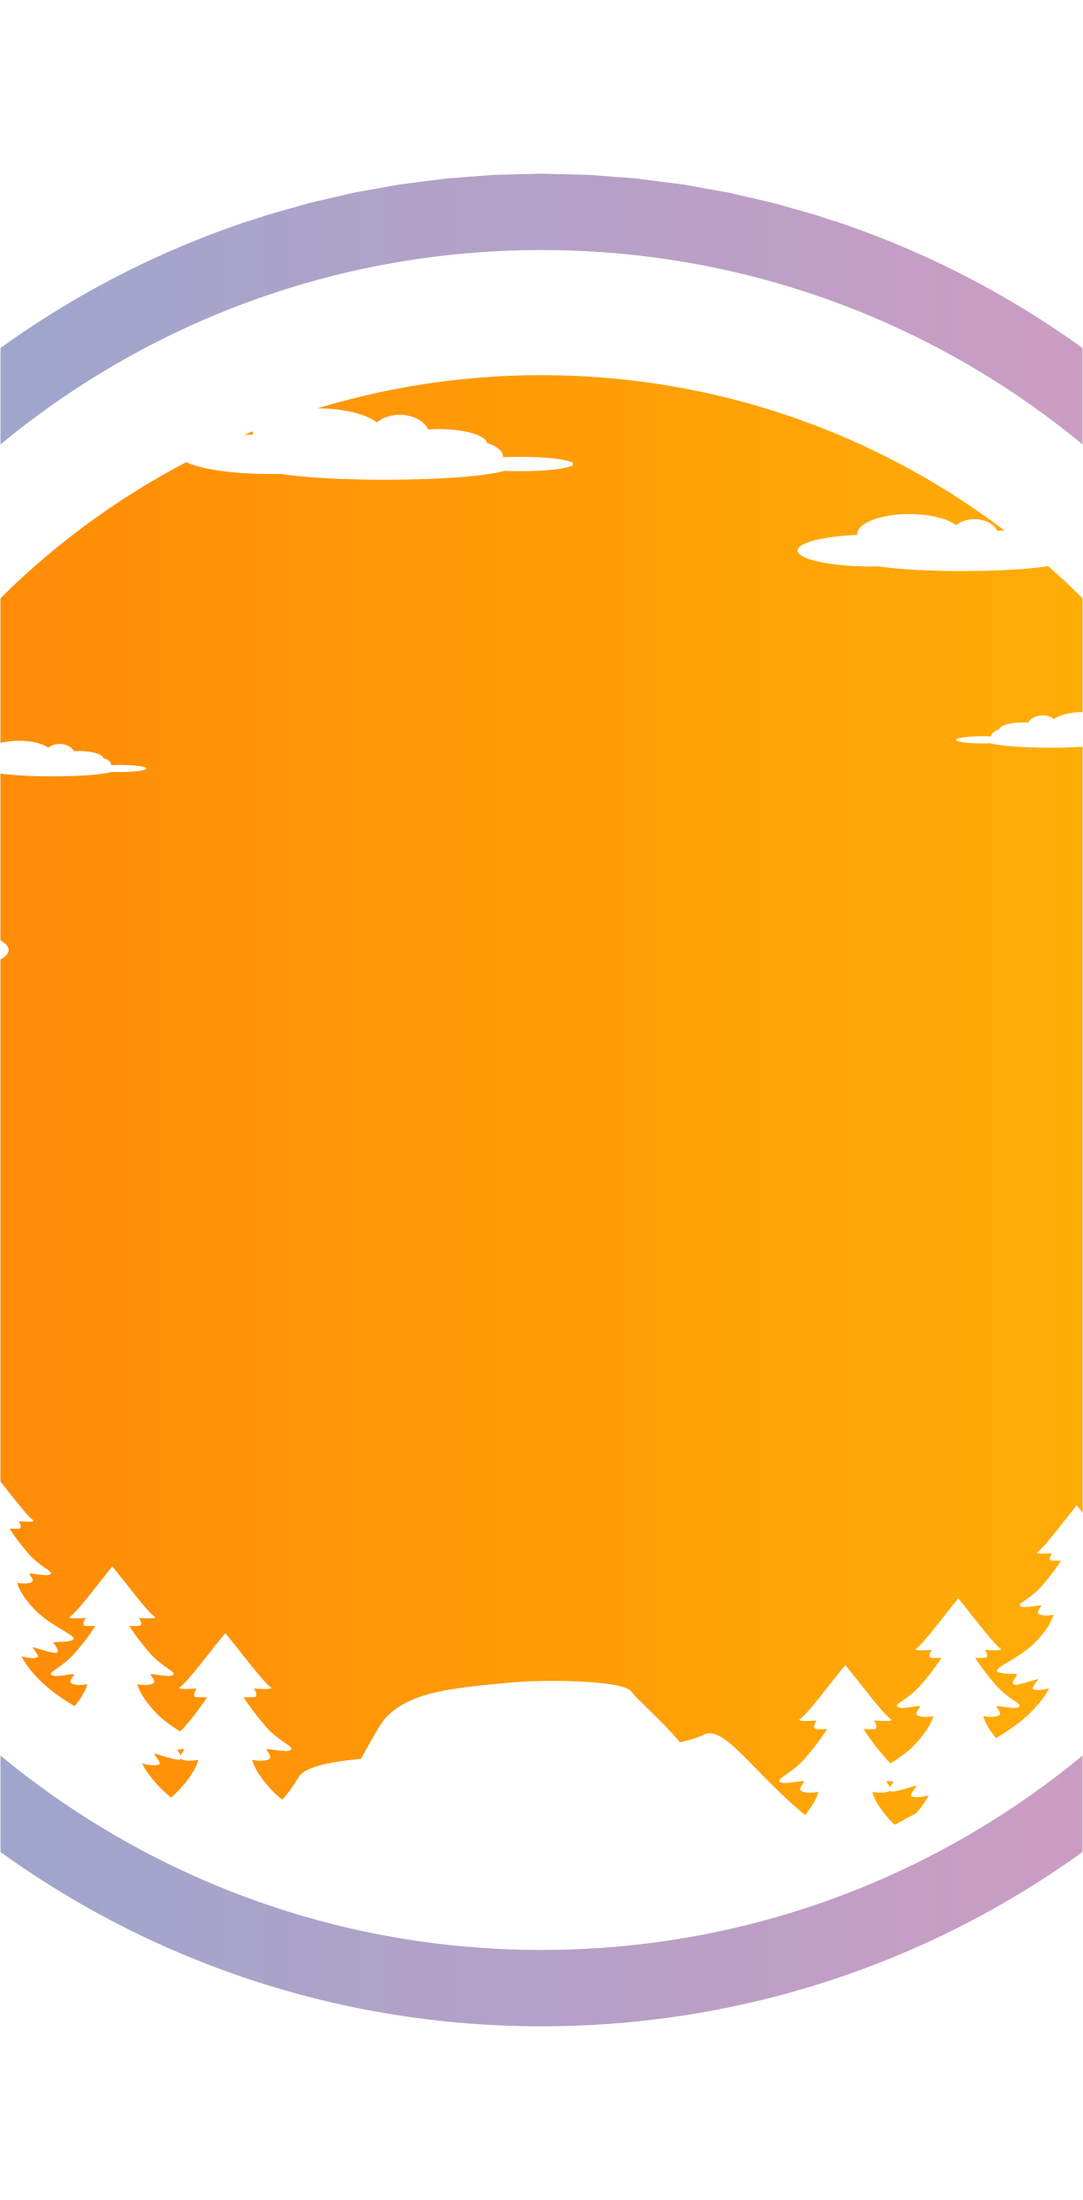
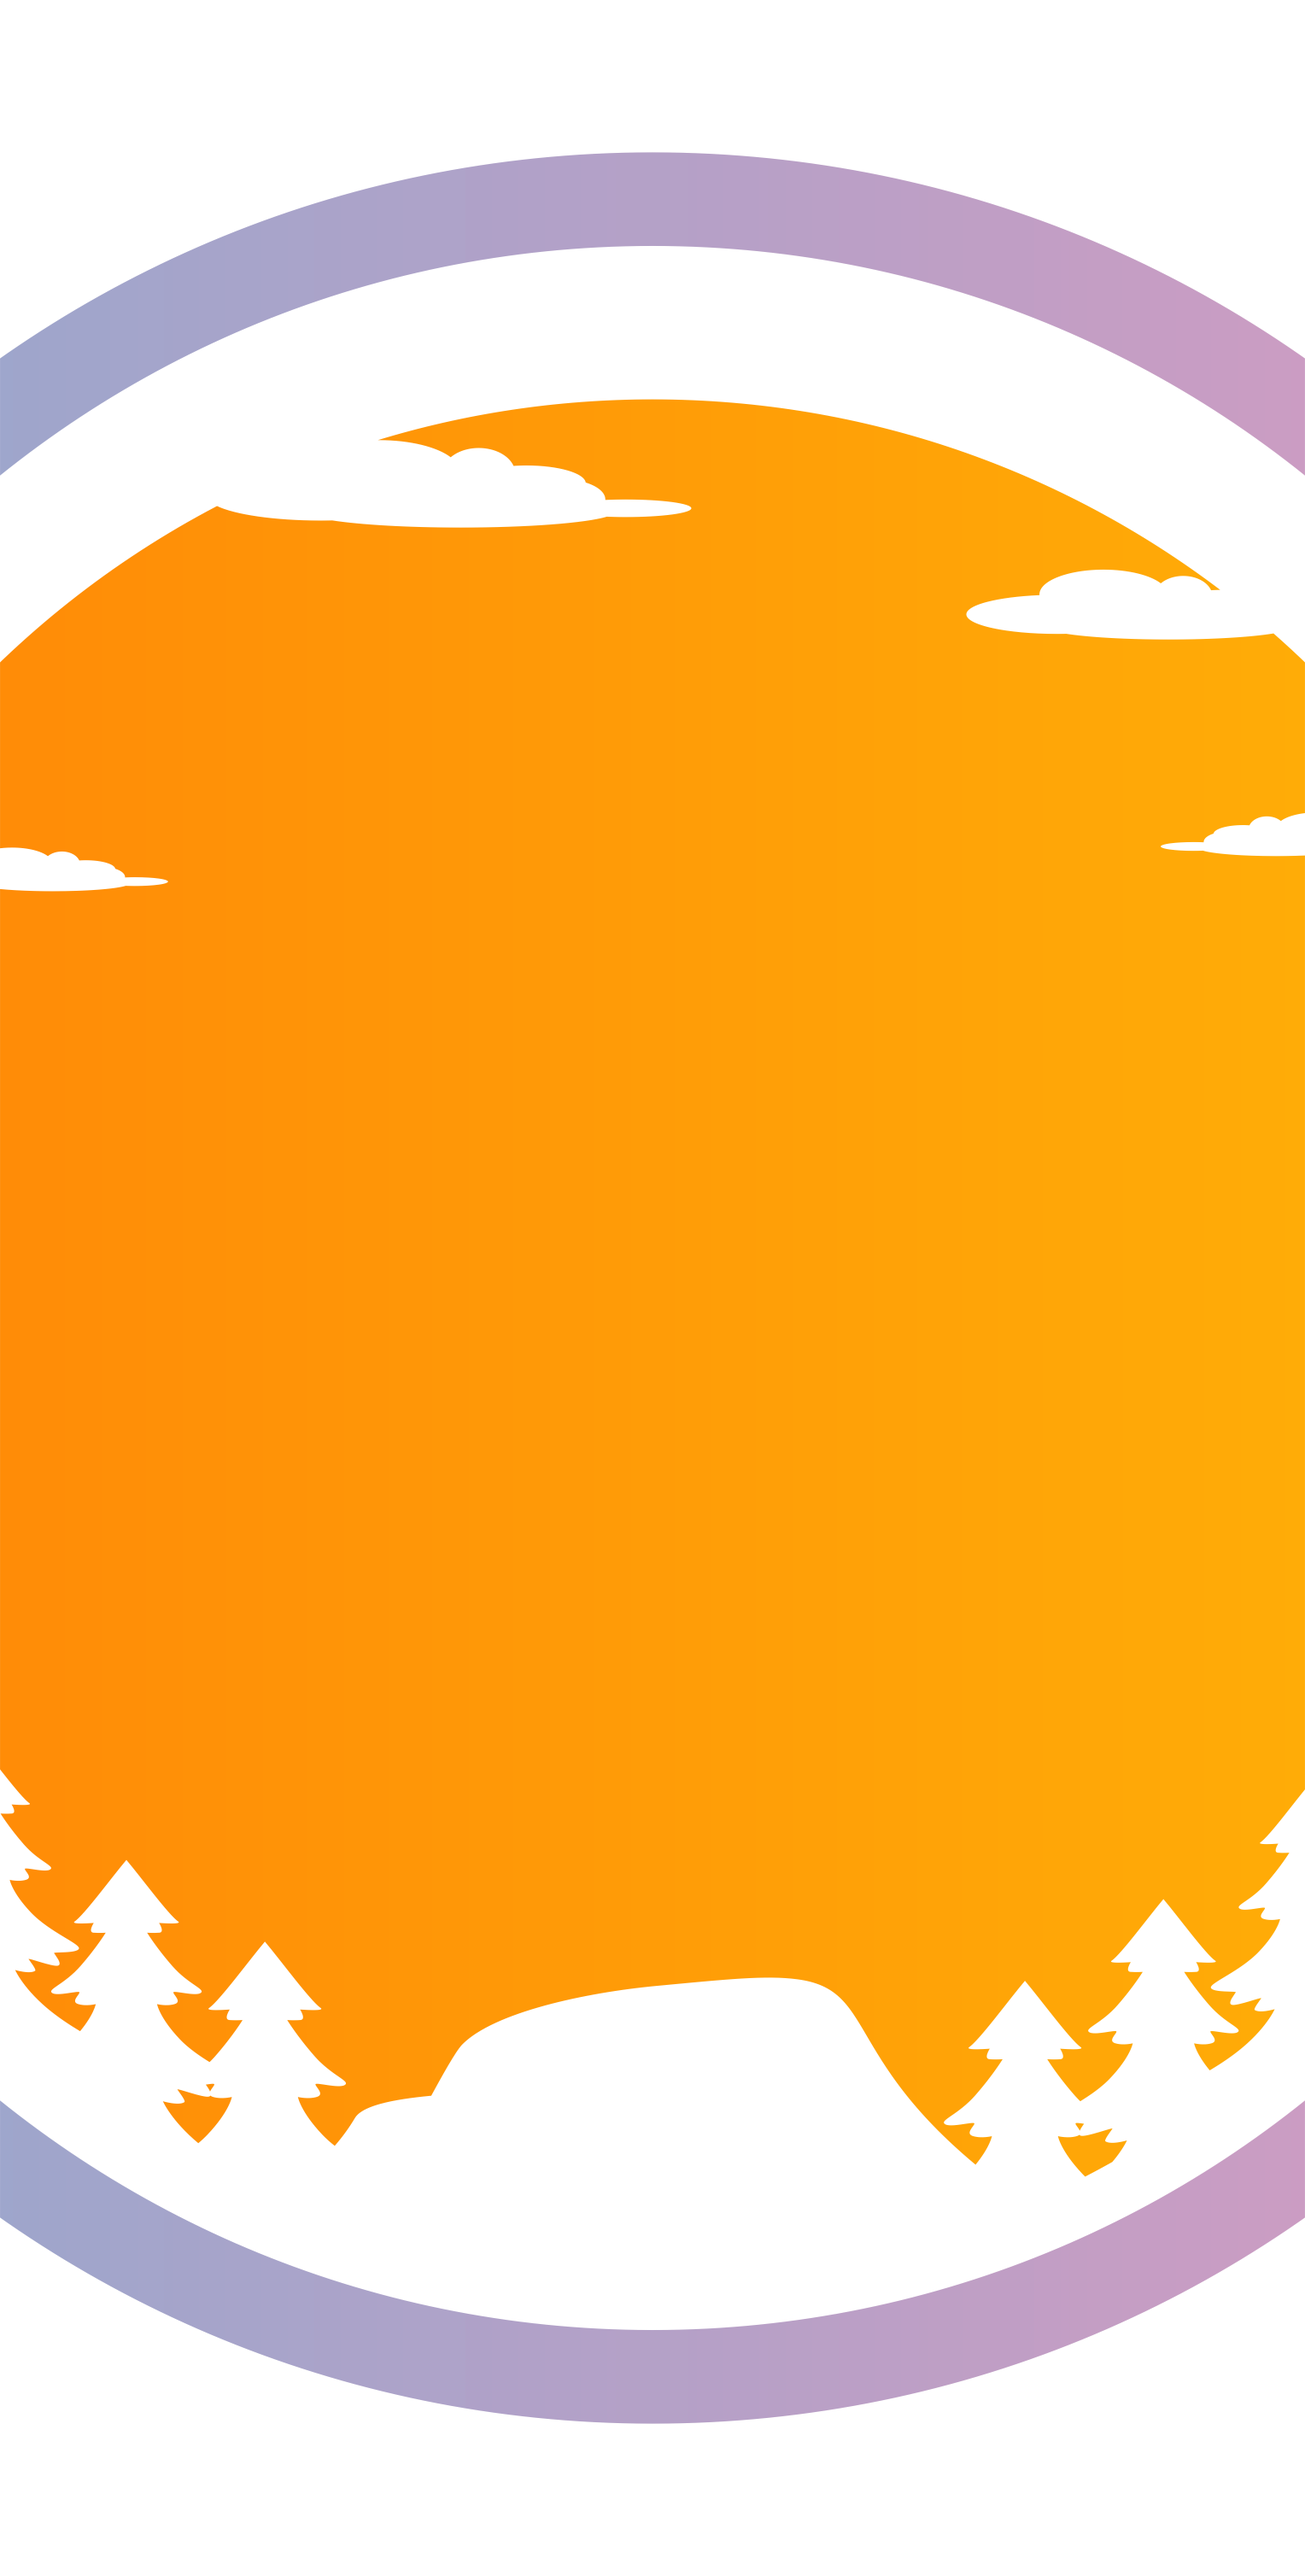
Add files via upload

diff --git a/index.html b/index.html
@@ -846,7 +846,7 @@
 }
 #section6{
     
-    background: orange;
+    background: url(./team/mobileteam.png); background-color: black; background-position: center; background-repeat: no-repeat; background-size: cover;
 }
 }
 
@@ -914,7 +914,7 @@
 
 <div class="section" id="section6">
 
-<svg xmlns="http://www.w3.org/2000/svg" xml:space="preserve" width="auto" height="520px" version="1.1" style="shape-rendering:geometricPrecision; text-rendering:geometricPrecision; image-rendering:optimizeQuality; fill-rule:evenodd; clip-rule:evenodd"
+<svg xmlns="http://www.w3.org/2000/svg" xml:space="preserve" width="auto" height="475px" version="1.1" style="shape-rendering:geometricPrecision; text-rendering:geometricPrecision; image-rendering:optimizeQuality; fill-rule:evenodd; clip-rule:evenodd"
 viewBox="0 0 3014.12 4233.32"
  xmlns:xlink="http://www.w3.org/1999/xlink">
  <defs>
